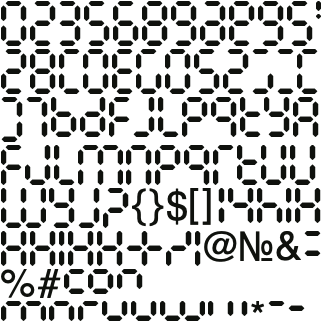
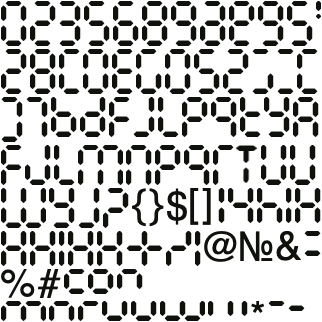
Mute and greeting

Changed region(s): [[0.7143, 0.4348, 0.8075, 0.5901]]

diff --git a/gmtk2021/app.js b/gmtk2021/app.js
@@ -13,7 +13,7 @@ define("scenes/greeting", ["require", "exports"], function (require, exports) {
             var content = [
                 "Two games, one win",
                 "",
-                "Topic of GMTK Game Jam 2020 is “JOINED TOGETHER”.",
+                "Topic of GMTK Game Jam 2021 is “JOINED TOGETHER”.",
                 "Here's our small game about Tetris and Arcanoid.",
                 "Use keyboard or on-screen controls to play.",
                 "",
@@ -37,14 +37,16 @@ define("scenes/greeting", ["require", "exports"], function (require, exports) {
                 window.SaveState = {};
             }
             this.input.on('pointerdown', () => {
-                if (!clicked || true) {
+                if (!clicked) {
+                    console.log('greeting pointerdown');
                     this.scene.switch('main');
                     clicked = true;
                 }
             });
             this.input.keyboard.on('keydown', (event) => {
                 event.preventDefault();
-                if (!clicked || true) {
+                if (!clicked) {
+                    console.log('greeting keydown');
                     this.scene.switch('main');
                     clicked = true;
                 }
@@ -712,6 +714,11 @@ define("scenes/main", ["require", "exports", "game/tetris", "game/arcanoid"], fu
                     this.time.timeScale = 15.5;
                     this.arcanoid.speedUp();
                 }
+                if ([Phaser.Input.Keyboard.KeyCodes.M].includes(event.keyCode)) {
+                    event.preventDefault();
+                    event.stopPropagation();
+                    this.game.sound.mute = !this.game.sound.mute;
+                }
             });
             this.input.keyboard.on('keyup', (event) => {
                 if ([Phaser.Input.Keyboard.KeyCodes.DOWN, Phaser.Input.Keyboard.KeyCodes.S].includes(event.keyCode)) {
@@ -777,6 +784,20 @@ define("scenes/main", ["require", "exports", "game/tetris", "game/arcanoid"], fu
             this.textScore = this.add.bitmapText(halfWidth - this.cellSize, this.cellSize * 4, 'gamefont', '0', this.cellSize / 2);
             this.add.bitmapText(halfWidth - this.cellSize, this.cellSize * 6, 'gamefont', 'HIGH', this.cellSize / 2);
             this.textHigh = this.add.bitmapText(halfWidth - this.cellSize, this.cellSize * 7, 'gamefont', window.HIGHSCORE, this.cellSize / 2);
+            // let sprite = this.physics.add.sprite(0, 0, 'particle')
+            // sprite.setOrigin(0.5)
+            // this.scaleSprite(sprite, this.cellSize/3)
+            // sprite.setDepth(100)
+            // sprite.x = halfWidth - this.cellSize*0.75
+            // sprite.y = this.cellSize * 17
+            // sprite = this.physics.add.sprite(0, 0, 'particle')
+            // sprite.setOrigin(0.5)
+            // this.scaleSprite(sprite, this.cellSize/3)
+            // sprite.setDepth(100)
+            // sprite.x = halfWidth + this.cellSize*0.5
+            // sprite.y = this.cellSize * 17
+            this.add.bitmapText(halfWidth - this.cellSize, this.cellSize * 18, 'gamefont', "M TO", this.cellSize / 2);
+            this.add.bitmapText(halfWidth - this.cellSize, this.cellSize * 19, 'gamefont', "MUTE", this.cellSize / 2);
             // let sprite = this.physics.add.sprite(0, 0, 'button_sound').setInteractive()
             // sprite.setOrigin(0.5)
             // this.scaleSprite(sprite, this.cellSize*2)

diff --git a/gmtk2021/src/scenes/main.ts b/gmtk2021/src/scenes/main.ts
@@ -188,6 +188,12 @@ export class MainScene extends Phaser.Scene {
                 this.time.timeScale = 15.5
                 this.arcanoid.speedUp();
             }
+
+            if ([Phaser.Input.Keyboard.KeyCodes.M].includes(event.keyCode)) {
+                event.preventDefault()
+                event.stopPropagation()
+                this.game.sound.mute = !this.game.sound.mute
+            }
         });
 
         this.input.keyboard.on('keyup', (event: any) => {
@@ -265,6 +271,23 @@ export class MainScene extends Phaser.Scene {
         this.add.bitmapText(halfWidth - this.cellSize, this.cellSize * 6, 'gamefont', 'HIGH', this.cellSize /2)
         this.textHigh = this.add.bitmapText(halfWidth - this.cellSize, this.cellSize * 7, 'gamefont', window.HIGHSCORE, this.cellSize /2)
 
+
+        // let sprite = this.physics.add.sprite(0, 0, 'particle')
+        // sprite.setOrigin(0.5)
+        // this.scaleSprite(sprite, this.cellSize/3)
+        // sprite.setDepth(100)
+        // sprite.x = halfWidth - this.cellSize*0.75
+        // sprite.y = this.cellSize * 17
+
+        // sprite = this.physics.add.sprite(0, 0, 'particle')
+        // sprite.setOrigin(0.5)
+        // this.scaleSprite(sprite, this.cellSize/3)
+        // sprite.setDepth(100)
+        // sprite.x = halfWidth + this.cellSize*0.5
+        // sprite.y = this.cellSize * 17
+
+        this.add.bitmapText(halfWidth - this.cellSize, this.cellSize * 18, 'gamefont', "M TO", this.cellSize /2)
+        this.add.bitmapText(halfWidth - this.cellSize, this.cellSize * 19, 'gamefont', "MUTE", this.cellSize /2)
         // let sprite = this.physics.add.sprite(0, 0, 'button_sound').setInteractive()
         // sprite.setOrigin(0.5)
         // this.scaleSprite(sprite, this.cellSize*2)

diff --git a/gmtk2021/src/scenes/greeting.ts b/gmtk2021/src/scenes/greeting.ts
@@ -15,7 +15,7 @@ export class GreetingScene extends Phaser.Scene {
         var content = [
             "Two games, one win",
             "",
-            "Topic of GMTK Game Jam 2020 is “JOINED TOGETHER”.",
+            "Topic of GMTK Game Jam 2021 is “JOINED TOGETHER”.",
             "Here's our small game about Tetris and Arcanoid.",
             "Use keyboard or on-screen controls to play.",
             "",
@@ -45,7 +45,8 @@ export class GreetingScene extends Phaser.Scene {
         }
 
         this.input.on('pointerdown', () => {
-            if (!clicked || true) {
+            if (!clicked) {
+              console.log('greeting pointerdown')
               this.scene.switch('main')
               clicked = true
             }
@@ -53,7 +54,8 @@ export class GreetingScene extends Phaser.Scene {
 
         this.input.keyboard.on('keydown', (event: any) => {
             event.preventDefault()
-            if (!clicked || true) {
+            if (!clicked) {
+              console.log('greeting keydown')
               this.scene.switch('main')
               clicked = true
             }
